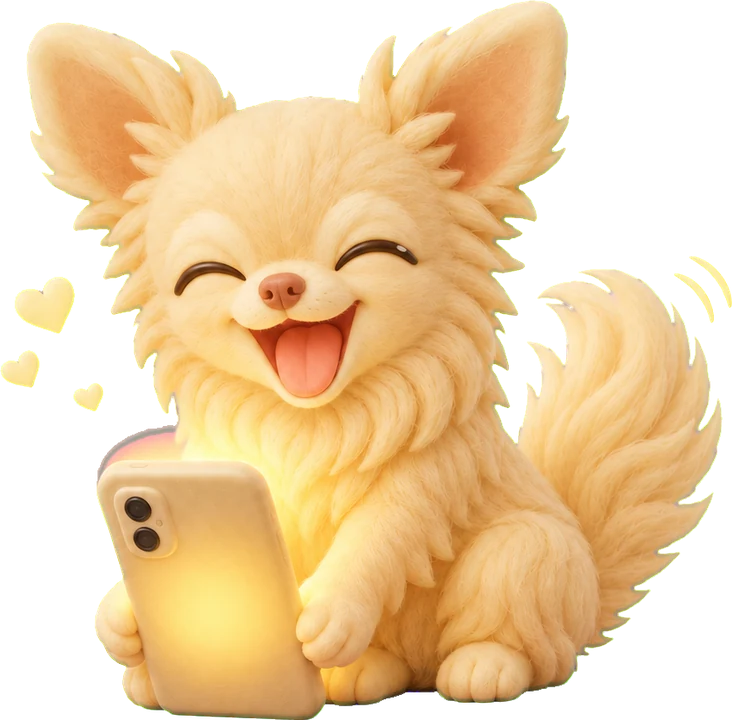
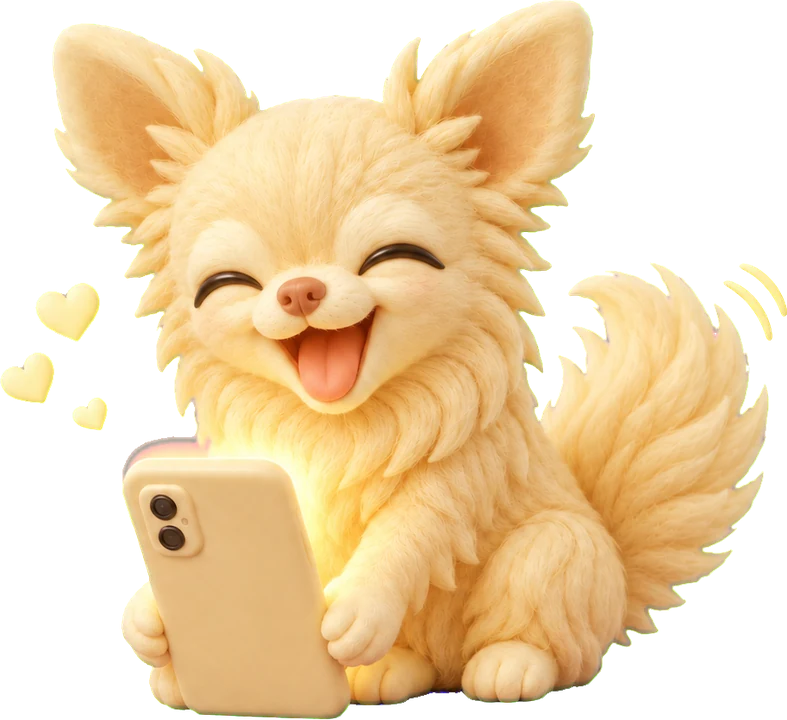
パパクエ公式サイト v10 確認用プレビュー更新（ビビちゃんの背面の巻物を無くす・夜の場面＝ミートボーが左へ→大きなロック画面がドン。noindex）

Changed region(s): [[0.0, 0.0, 1.0, 1.0]]

diff --git a/preview/papakue-v10-27e93f/app.js b/preview/papakue-v10-27e93f/app.js
@@ -404,7 +404,7 @@
   function zvScroll() { [["dl", document.querySelector(".closing")]].forEach(([k, el]) => { if (!zvBox[k] || !el) return; const r = el.getBoundingClientRect(), near = r.top < H * 1.6 && r.bottom > -H * .5; if (near) zvEnsure(k); const on = r.top < H * .6 && r.bottom > H * .35; if (on !== !!zvOn[k]) { zvOn[k] = on; const z = zvEnsure(k); if (z && z.v && !RM) { try { if (on) { z.v.currentTime = 0; const pr = z.v.play(); if (pr && pr.catch) pr.catch(() => {}); } else { z.v.pause(); z.v.currentTime = 0; } } catch (e) {} } } }); }
 
   /* ---------- ミートボーの生活の場面（全章共通の1枚。いちばん出ている章の絵を出す） ---------- */
-  const life = $("life"), lfImg = $("lfImg"), lfBub = $("lfBub"), lfLab = $("lfLab"), lfLock = $("lfLock"); let lifeKey = "";
+  const life = $("life"), lfImg = $("lfImg"), lfBub = $("lfBub"), lfLab = $("lfLab"), lfLock = $("lfLock"), lfCap = $("lfCap"); let lifeKey = "";
   function lifeFrame(ps) {
     let best = { op: 0 };
     Object.keys(LIFE_CH).forEach(ch => { const w = LIFE_WIN[ch], p = ps[ch], a = o4(seg(p, w[0], w[1])), out = sm(seg(p, w[2], w[3])), op = sm(seg(p, w[0], w[0] + .07)) * (1 - out);
@@ -413,10 +413,18 @@
     if (lifeKey !== best.key) { lifeKey = best.key; const c = LIFE[best.key]; lfImg.src = c.src; lfImg.alt = c.alt; lfBub.textContent = c.bubble; lfLab.textContent = c.label; }
     life.style.visibility = "visible"; life.style.opacity = String(best.op);
     life.style.transform = `translateX(${-best.out * W * .35}px) scale(${1 - .25 * best.out})`; lfImg.parentElement.style.transform = `scale(${lerp(.78, 1, best.a)}) translateY(${(1 - best.a) * 30}px)`;
-    /* 夜の場面だけ：あと1件のロック画面が出て（.38〜.46）、吹き出しが「残ってた！」に変わる（.54〜） */
-    if (lfLock) { const night = best.key === "s7", lk = night ? o4(seg(best.p, .38, .47)) : 0; lfLock.style.opacity = String(lk); lfLock.style.transform = `scale(${lerp(.6, 1, lk)}) translateY(${(1 - lk) * 24}px)`;
-      if (night) { const sw = best.p > .54; const txt = sw ? "残ってた！" : LIFE.s7.bubble; if (lfBub.textContent !== txt) lfBub.textContent = txt; } }
-    lfLab.style.opacity = String(best.a); lfBub.style.opacity = String(clamp(best.pop * 2)); lfBub.style.transform = `scale(${lerp(.2, 1, best.pop) * (1 + .08 * bell(seg(best.p, best.t, best.t + .1)) + (best.key === "s7" ? .1 * bell(seg(best.p, .54, .62)) : 0))}) rotate(${(1 - best.pop) * -10}deg)`;
+    /* 夜の場面：ミートボーが左へスライド → 大きなスマホ（実機のロック画面）が「ドン」と出て、吹き出しが「残ってた！」に。キャプション「ロック画面で、確認できます」 */
+    const night = best.key === "s7", lk = night ? o4(seg(best.p, .38, .46)) : 0, don = night ? o4(seg(best.p, .38, .45)) : 0;
+    const sh = lk * W * (M ? .23 : .20), sN = 1 - lk * (M ? .30 : .08);
+    lfImg.parentElement.style.transform = `translateX(${-sh.toFixed(1)}px) scale(${(lerp(.78, 1, best.a) * sN).toFixed(3)}) translateY(${(1 - best.a) * 30}px)`;
+    if (lfLock) {
+      const ph = M ? Math.min(.43 * H, 350) : Math.min(.74 * H, 620), pw = ph * 481 / 960, area = life.clientHeight || (H - 64), cx = W * (M ? .74 : .64);
+      lfLock.style.height = ph.toFixed(1) + "px"; lfLock.style.width = pw.toFixed(1) + "px"; lfLock.style.left = (cx - pw / 2).toFixed(1) + "px"; lfLock.style.top = Math.max(6, (area - ph) / 2 - (M ? 6 : 30)).toFixed(1) + "px";
+      lfLock.style.opacity = String(night ? clamp(seg(best.p, .38, .405)) : 0);
+      lfLock.style.transform = `translateY(${(-(1 - don) * 70).toFixed(1)}px) scale(${(lerp(1.4, 1, don) + (night ? .035 * bell(seg(best.p, .44, .54)) : 0)).toFixed(3)})`;
+      if (lfCap) lfCap.style.opacity = String(night ? clamp(seg(best.p, .47, .53)) : 0);
+      if (night) { const sw = best.p > .40; const txt = sw ? "残ってた！" : LIFE.s7.bubble; if (lfBub.textContent !== txt) lfBub.textContent = txt; } }
+    lfLab.style.opacity = String(best.a * (1 - lk)); lfBub.style.opacity = String(clamp(best.pop * 2)); lfBub.style.transform = `scale(${lerp(.2, 1, best.pop) * (1 + .08 * bell(seg(best.p, best.t, best.t + .1)) + (best.key === "s7" ? .1 * bell(seg(best.p, .40, .48)) : 0))}) rotate(${(1 - best.pop) * -10}deg)`;
   }
 
   /* ---------- ビビちゃん（相手のスマホの右の空きに）：受け取った → ゴミ出し中 → スタンプで喜ぶ ---------- */

diff --git a/preview/papakue-v10-27e93f/index.html b/preview/papakue-v10-27e93f/index.html
@@ -247,8 +247,8 @@ footer a:hover { color: var(--ink); text-decoration: underline; }
 </header>
 
 <!-- ===== 固定レイヤー：ワールド＋カメラ ===== -->
-<div id="bivi" aria-hidden="true"><img id="bvLook" src="assets/bivi/bivi_look.webp" alt="" width="732" height="720" decoding="async"><img id="bvTrash" src="assets/bivi/bivi_trash.webp" alt="" width="927" height="720" decoding="async"><img id="bvHappy" src="assets/bivi/bivi_happy.webp" alt="" width="732" height="720" decoding="async"></div>
-<div id="life" aria-hidden="true"><div class="lf-lab" id="lfLab"></div><div class="lf-wrap"><img id="lfImg" alt="" width="480" height="506"><div class="lf-bubw"><div class="lf-bub" id="lfBub"></div></div><div class="lf-lock" id="lfLock" aria-hidden="true"><img src="assets/life/phone_lock.webp" alt="" width="481" height="960" decoding="async"></div></div></div></div></div>
+<div id="bivi" aria-hidden="true"><img id="bvLook" src="assets/bivi/bivi_look.webp" alt="" width="787" height="720" decoding="async"><img id="bvTrash" src="assets/bivi/bivi_trash.webp" alt="" width="927" height="720" decoding="async"><img id="bvHappy" src="assets/bivi/bivi_happy.webp" alt="" width="787" height="720" decoding="async"></div>
+<div id="life" aria-hidden="true"><div class="lf-lab" id="lfLab"></div><div class="lf-lock" id="lfLock"><img src="assets/life/phone_lock.webp" alt="" width="481" height="960" decoding="async"></div><div class="lf-cap" id="lfCap">ロック画面で、確認できます</div><div class="lf-wrap"><img id="lfImg" alt="" width="480" height="506"><div class="lf-bubw"><div class="lf-bub" id="lfBub"></div></div></div></div></div></div>
 <div class="zvfull" data-zm="thx" aria-hidden="true"></div>
 <div id="fx" aria-hidden="true">
   <canvas id="gridc"></canvas>
@@ -729,14 +729,14 @@ html.lockfix body { position: fixed; left: 0; right: 0; width: 100%; }
 @media (prefers-reduced-motion: reduce) { .nextgo, .statebar.sb1 { animation: none; } }
 
 /* 夜の場面：ロック画面ウィジェット「今日のクエスト」の模型（実アプリ＝LockScreenQuestView の accessoryRectangular と同じ文言） */
-.lf-lock { position: absolute; left: 97%; bottom: 1%; width: clamp(120px, 15vw, 190px); opacity: 0; transform-origin: 0 100%; will-change: transform, opacity; }
-.lf-lock img { display: block; width: 100%; height: auto; filter: drop-shadow(0 16px 24px rgba(31,34,35,.28)); }
-@media (max-width: 999px) { .lf-lock { left: 84%; bottom: 1%; width: clamp(80px, 22vw, 100px); } }
+.lf-lock { position: absolute; z-index: 3; left: 0; top: 0; opacity: 0; pointer-events: none; transform-origin: 50% 100%; will-change: transform, opacity; }
+.lf-lock img { display: block; height: 100%; width: auto; filter: drop-shadow(0 24px 40px rgba(31,34,35,.30)); }
+.lf-cap { position: absolute; left: 0; right: 0; bottom: 1%; text-align: center; font-size: clamp(20px, 2.4vw, 36px); font-weight: 800; color: #343a36; opacity: 0; pointer-events: none; will-change: opacity; }
 
 /* ビビちゃん（相手のスマホの右）：受け取った→ゴミ出し中→スタンプで喜ぶ（パンパン） */
 #bivi { position: fixed; z-index: 4; pointer-events: none; visibility: hidden; opacity: 0; will-change: transform, opacity; }
 #bivi img { position: absolute; left: 0; bottom: 0; height: 100%; width: auto; opacity: 0; transform-origin: 50% 100%; filter: drop-shadow(0 18px 22px rgba(31,34,35,.16)); }
 </style>
-<script src="app.js?v=10-20261108a"></script>
+<script src="app.js?v=10-20261108b"></script>
 </body>
 </html>
